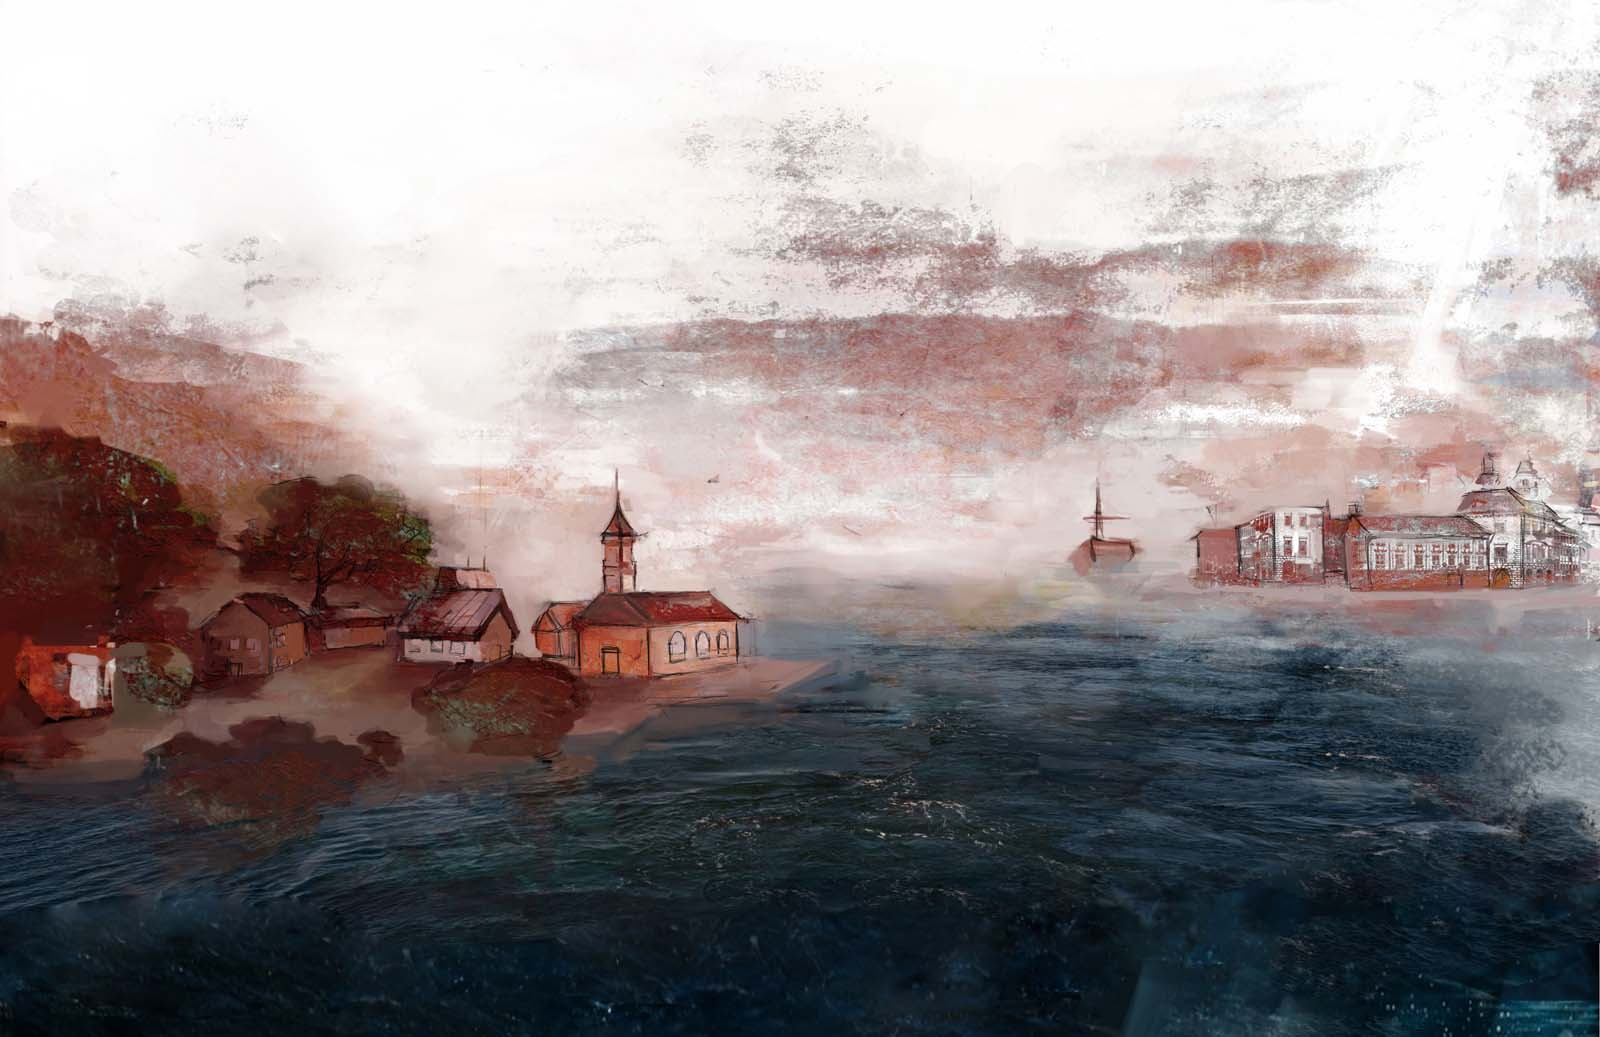
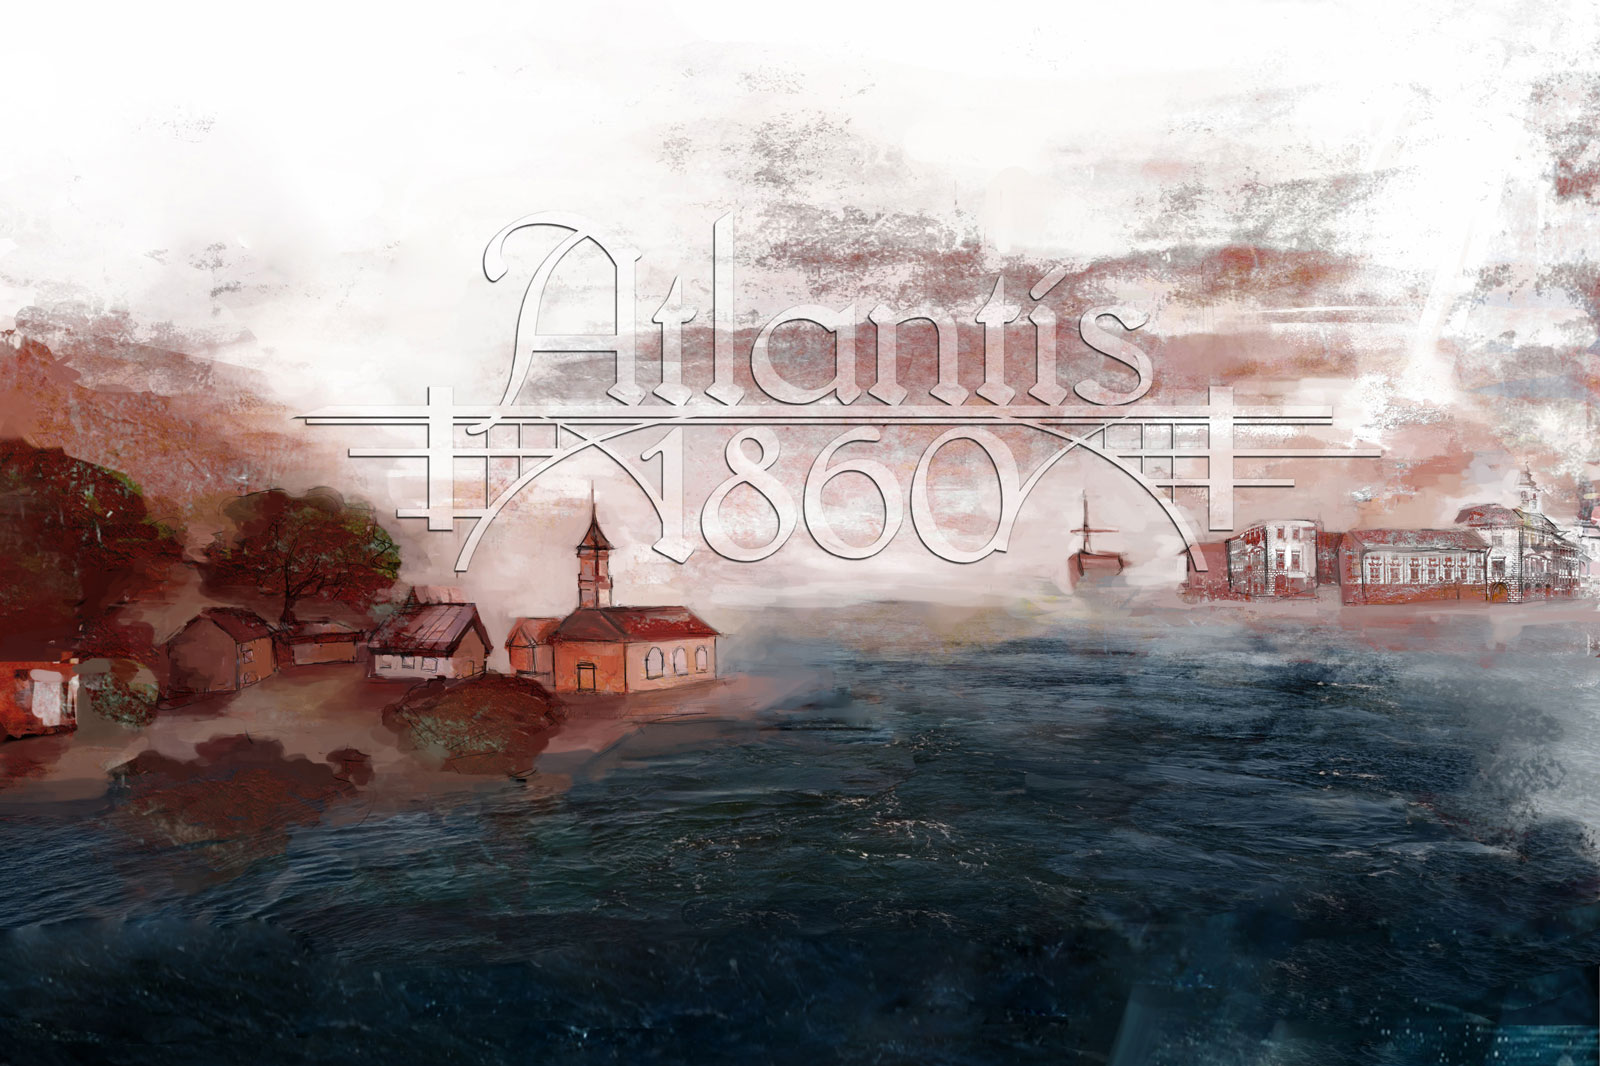
changed hero-bg

diff --git a/app/index.html b/app/index.html
@@ -21,11 +21,14 @@
 
 </head>
 <body>
+<!-- <div style="display:block; width:100%; height:100px;"> -->
+  
+</div>
   <div id="section1" class="section">
     <div class="container">
       <div class="row">
         <div id="logo" style="display:none;">
-          <img src="images/logo.png" alt="">
+          <!-- <img src="images/logo.png" alt=""> -->
         </div>
       </div>
     </div>

diff --git a/app/styles/main.scss b/app/styles/main.scss
@@ -81,6 +81,12 @@ a, a:hover, a:visited, a:active{
   height: 100vh;
 }
 
+@media (max-width: 800px){
+  #section1{
+    height: 50vh;
+  }
+}
+
 .text {
   background-image: url('../images/w1600/seamlesspaper.jpg');
   min-height: 50vh;
